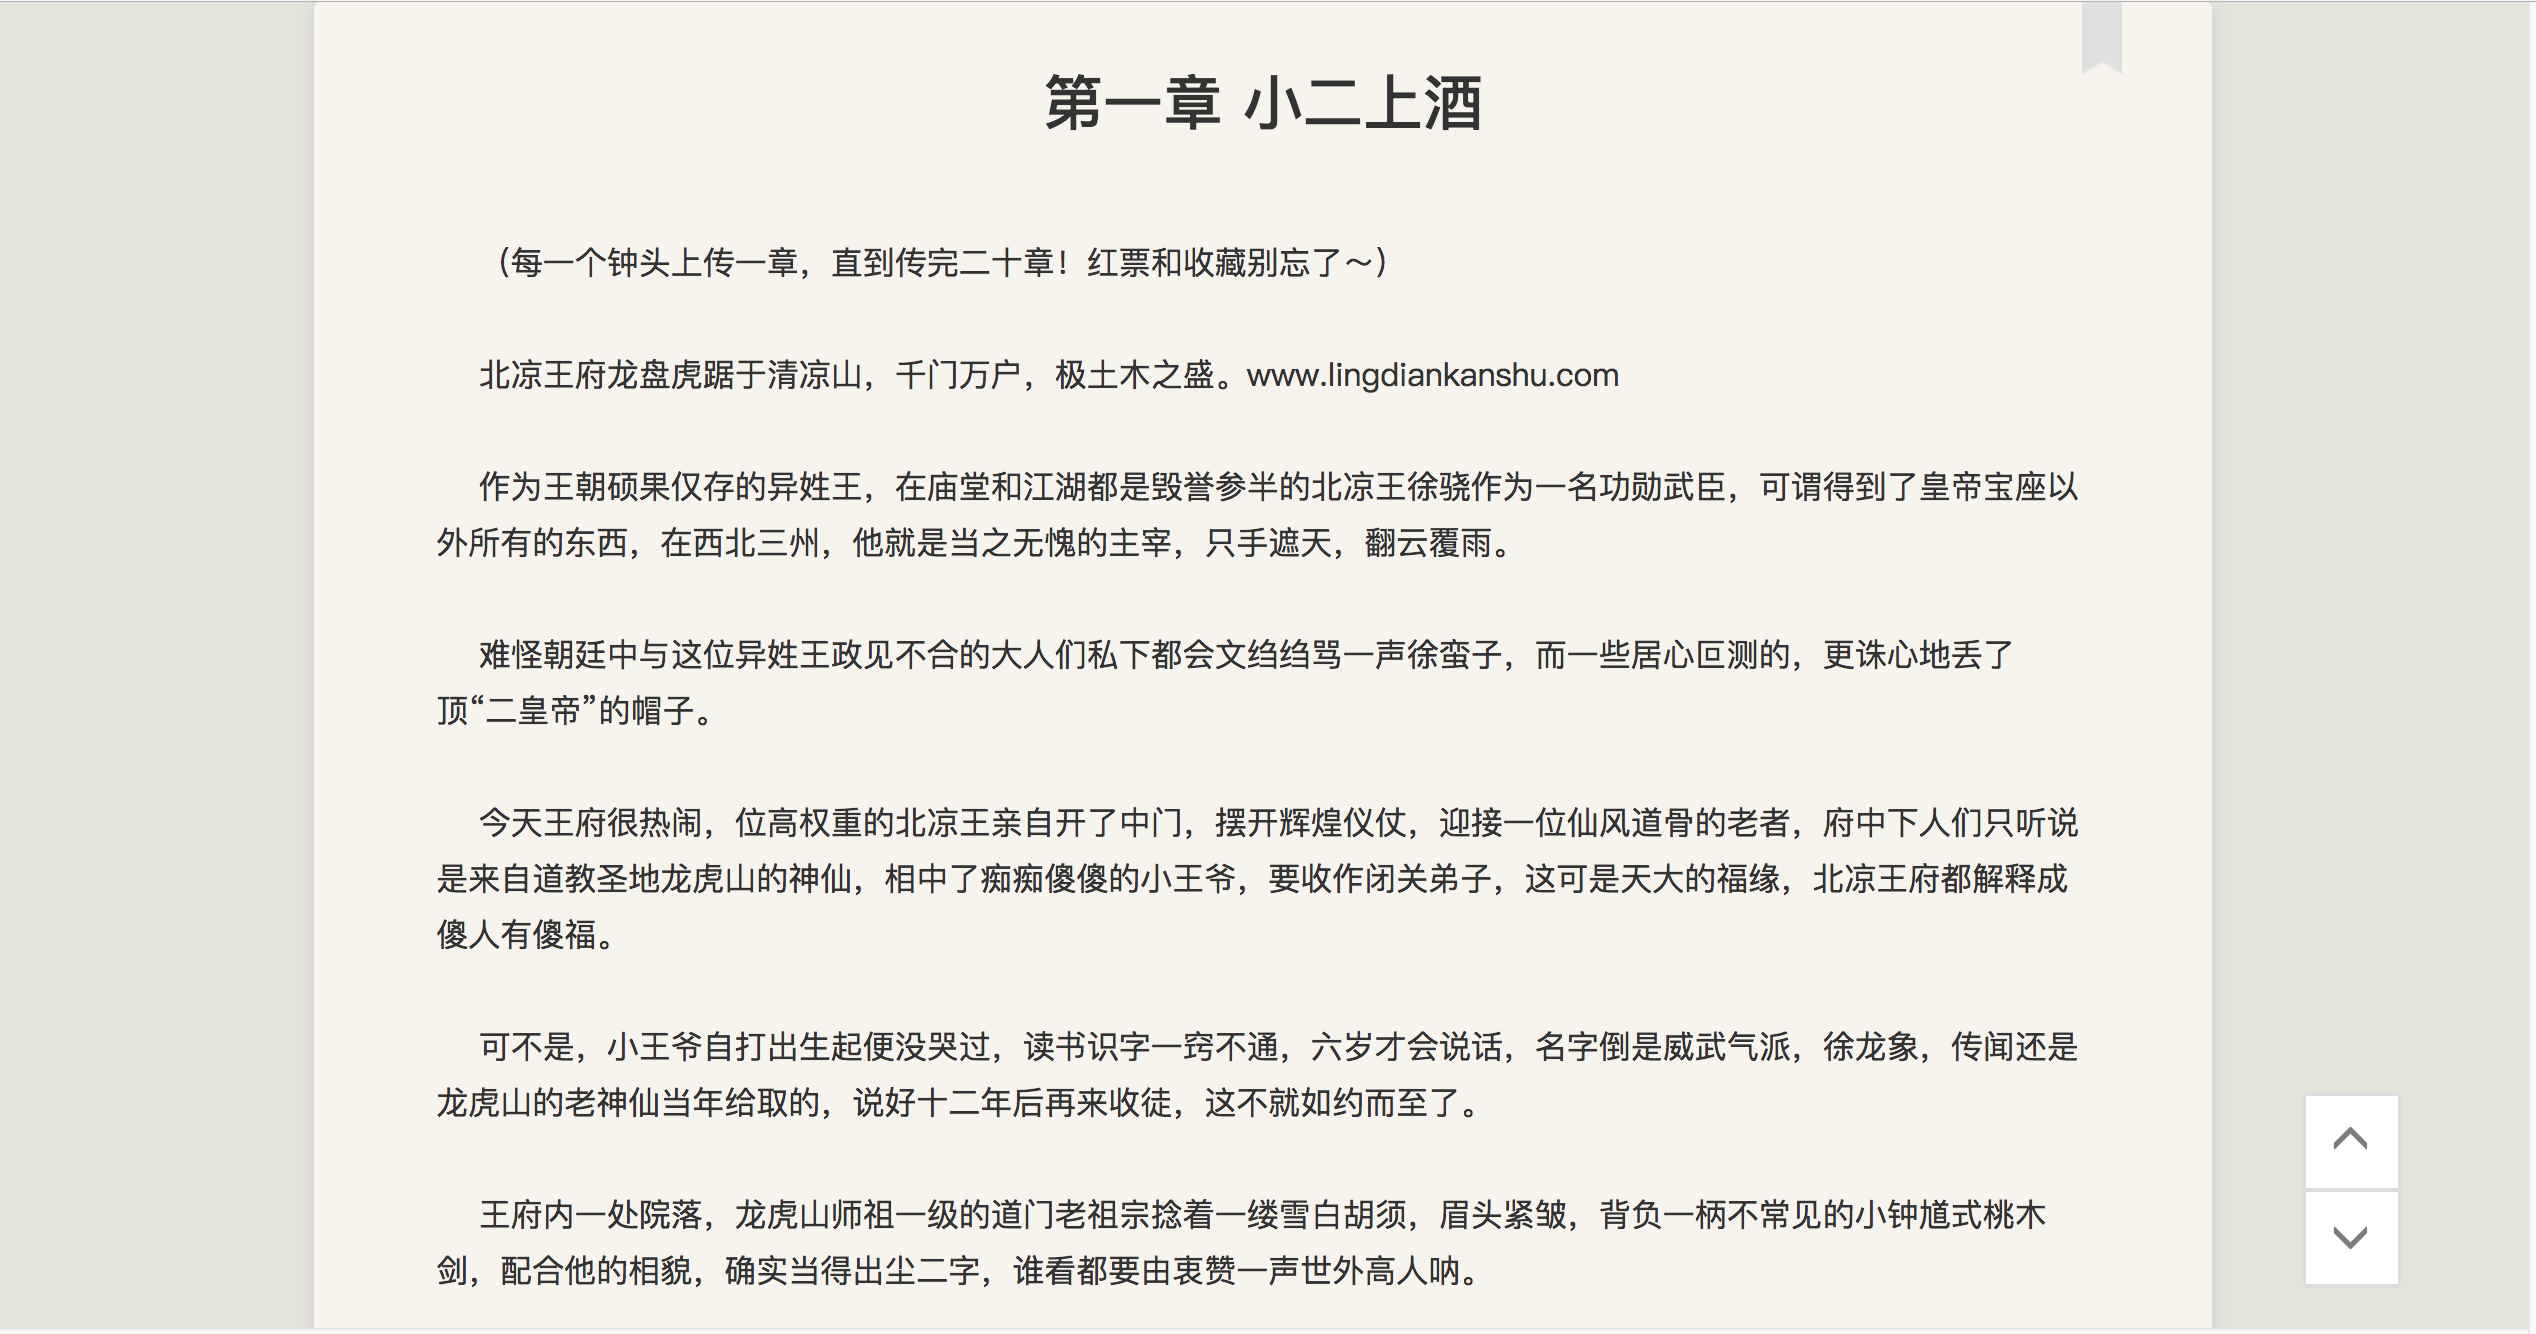
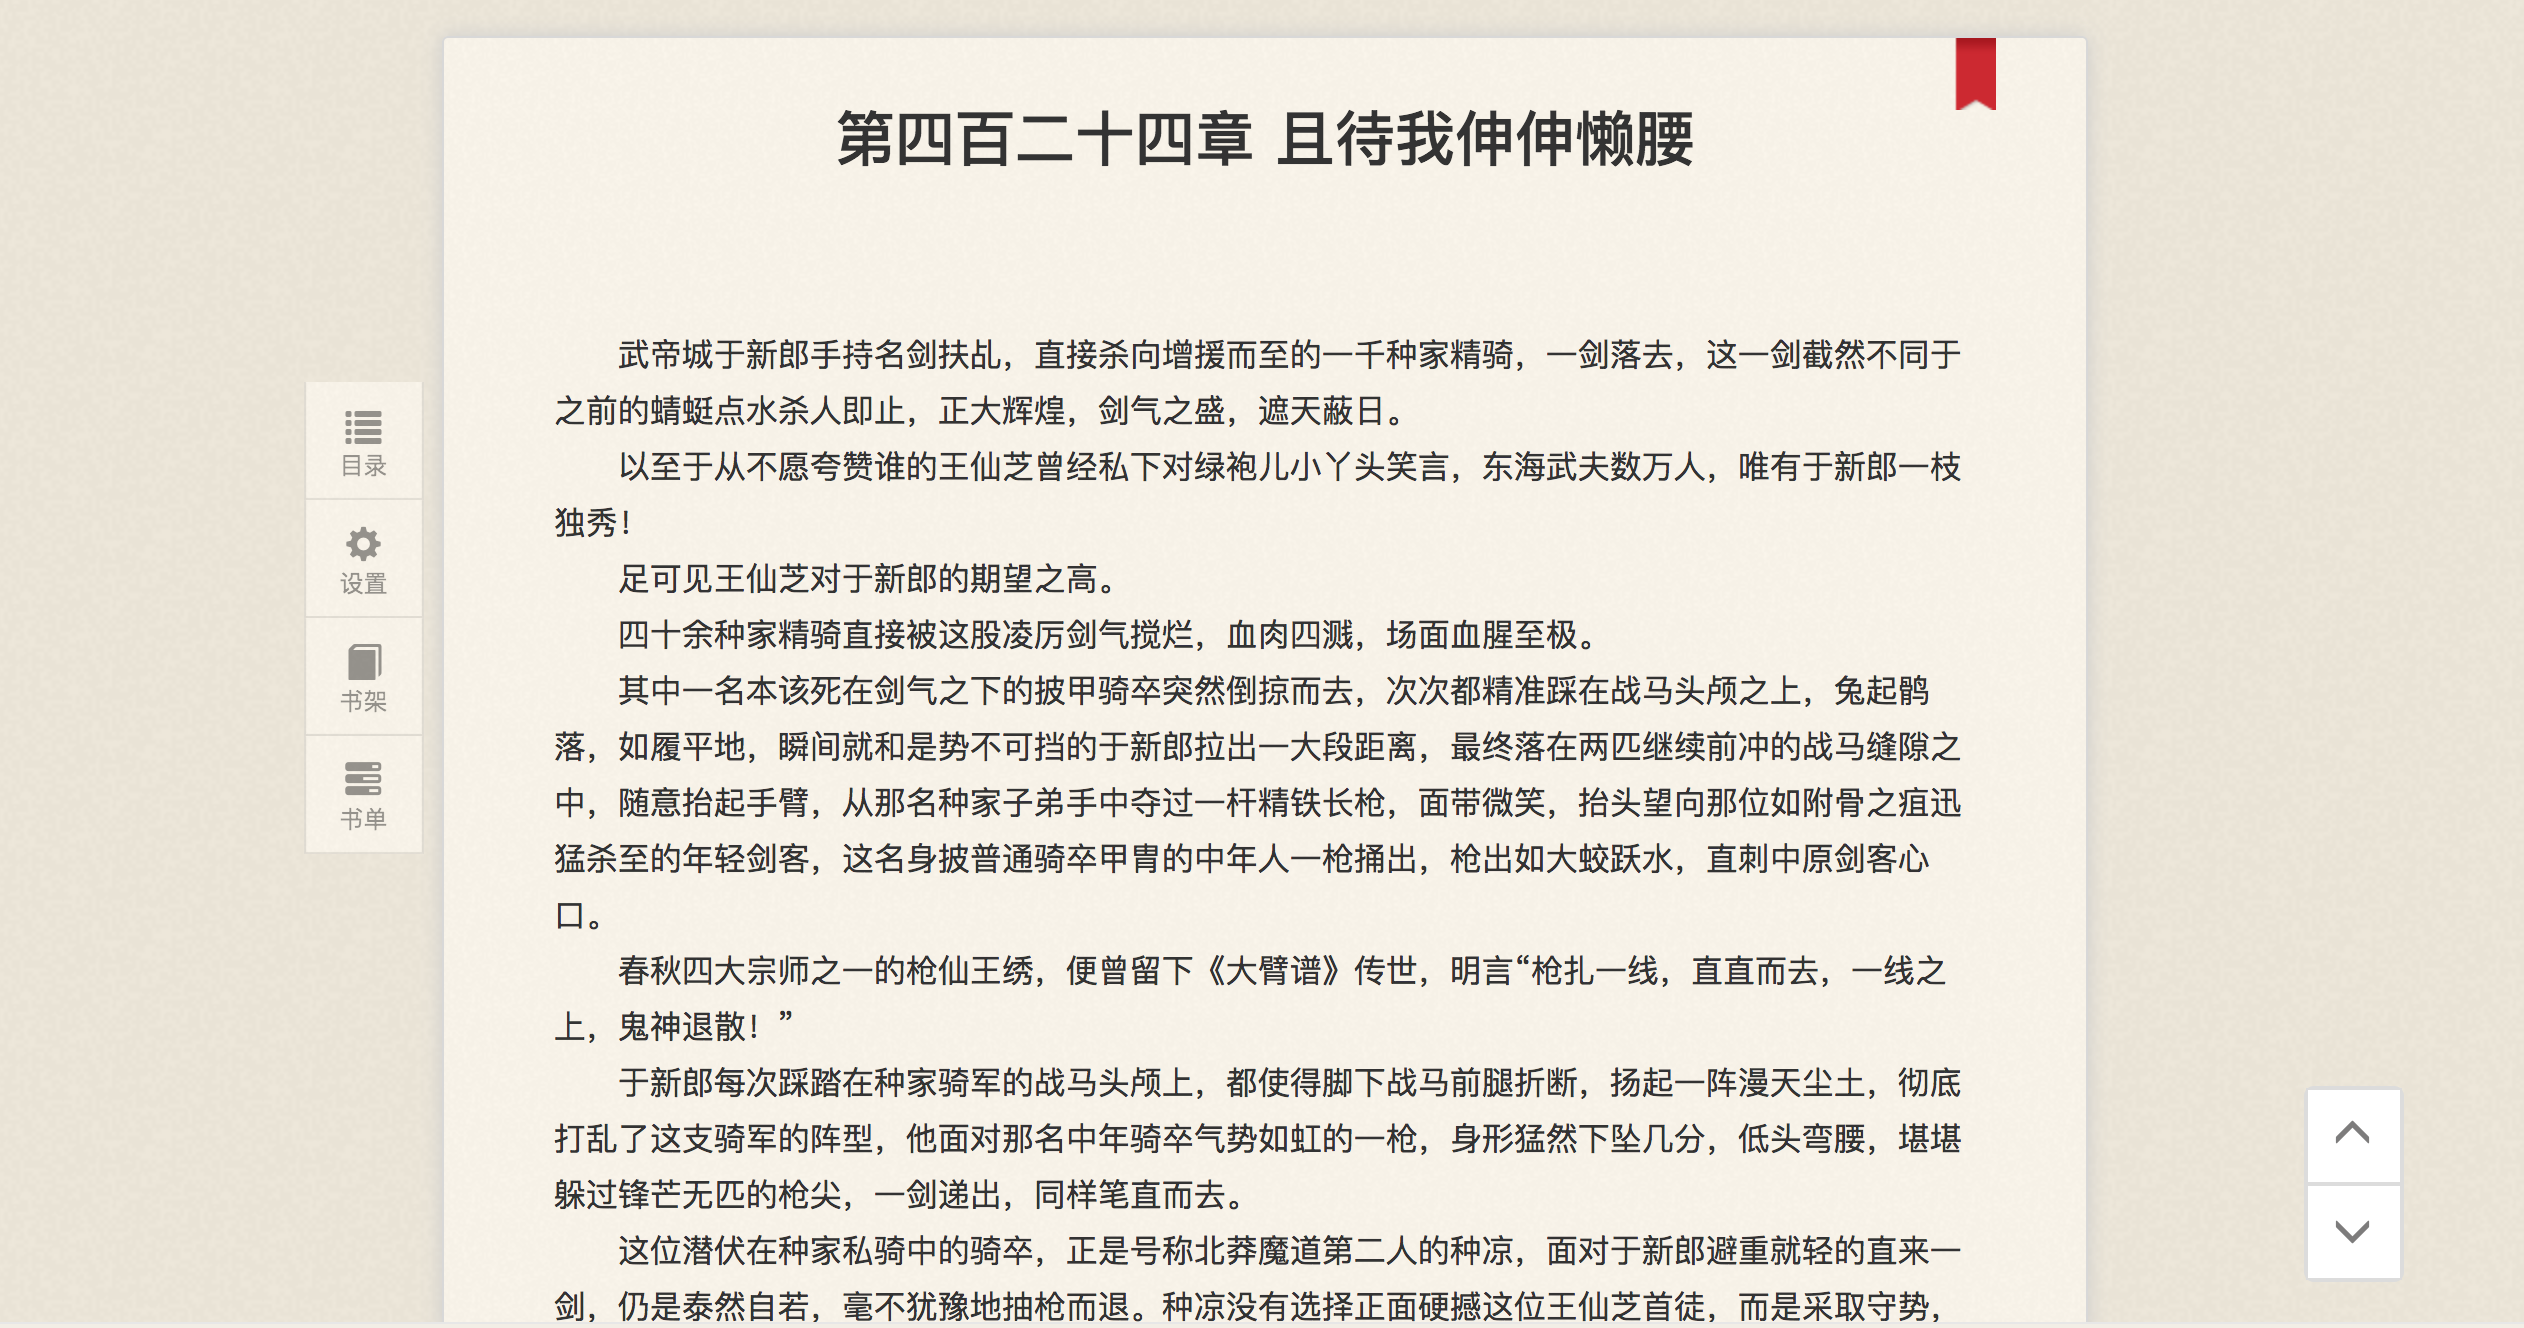
小说内容页面更改

diff --git a/novels_search/static/novels/js/list.js b/novels_search/static/novels/js/list.js
@@ -3,6 +3,8 @@
  */
 $(document).ready(function () {
     var content_url = $("#content_url").val();
+    var chapter_url = $("#url").val();
+    var novels_name = $("#novels_name").val();
     $(".container a").each(function () {
         var url = $(this).attr('href');
         if (typeof(url) != "undefined") {
@@ -10,19 +12,15 @@ $(document).ready(function () {
                 var name = $(this).text();
                 // 当content_url为1，表示该链接不用拼接
                 if (content_url == '1') {
-                    show_url = "owllook_content?url=" + url + "&name=" + name;
+                    content_url = ''
                 } else if (content_url == '0') {
                     // content_url=0表示章节网页需要当前url拼接
-                    content_url = $("#url").val();
-                    show_url = "owllook_content?url=" + content_url + url + "&name=" + name;
+                    content_url = chapter_url;
                 } else if (content_url == '-1') {
                     // content_url=-1 表示特殊情况
-                    content_url = $("#url").val();
-                    show_url = "owllook_content?url=" + content_url + url + "&name=" + name;
-                } else {
-                    show_url = "owllook_content?url=" + content_url + url + "&name=" + name;
-
+                    content_url = chapter_url;
                 }
+                show_url = "owllook_content?url=" + content_url + url + "&name=" + name + "&chapter_url=" + chapter_url + "&novels_name" + novels_name;
                 $(this).attr('href', show_url);
                 $(this).attr('target', '_blank');
             }

diff --git a/novels_search/templates/novels/content.html b/novels_search/templates/novels/content.html
@@ -34,9 +34,36 @@
 <div class="container all-content">
     <input id="content_url" type="hidden" value="{{content_url}}">
     <input id="url" type="hidden" value="{{url}}">
+    <input id="chapter_url" type="hidden" value="{{chapter_url}}">
     <div class="title">
         <a id="bookMark" title="书签" class="bookMark"></a>
         <h2>{{name}}</h2>
+    </div>
+    <div class="left-bar-list">
+        <div class="left-bar-flag">
+            <a href="/chapter?url={{chapter_url}}&novels_name={{novels_name}}">
+                <span class="glyphicon glyphicon-list" aria-hidden="true"></span>
+                <div>目录</div>
+            </a>
+        </div>
+        <div class="left-bar-flag">
+            <a href="">
+                <span class="glyphicon glyphicon-cog" aria-hidden="true"></span>
+                <div>设置</div>
+            </a>
+        </div>
+        <div class="left-bar-flag">
+            <a href="">
+                <span class="glyphicon glyphicon-book" aria-hidden="true"></span>
+                <div>书架</div>
+            </a>
+        </div>
+        <div class="left-bar-flag">
+            <a href="">
+                <span class="glyphicon glyphicon-tasks" aria-hidden="true"></span>
+                <div>书单</div>
+            </a>
+        </div>
     </div>
     <div class="show-content">
         {% for item in soup -%}

diff --git a/novels_search/static/novels/css/content.css b/novels_search/static/novels/css/content.css
@@ -55,11 +55,11 @@ body {
 
 .search input:focus {
     top: 15px;
-    border-bottom: 3px solid #7a776e;
+    border-bottom: 3px solid #E67676;
 }
 
 .all-content {
-    width: 70% !important;
+    width: 65% !important;
     box-shadow: 0 0 15px 0 #CCC;
     background: #F6F4EC;
     margin: 0 auto 30px;
@@ -114,6 +114,43 @@ body {
     word-break: break-all;
     font-family: "Microsoft YaHei";
     text-align: left;
+    position: relative;
+}
+
+.left-bar-list {
+    width: 60px;
+    position: fixed;
+    left: 12%;
+}
+
+.left-bar-list .left-bar-flag {
+    position: relative;
+    z-index: 100;
+    cursor: pointer;
+    border: 1px solid rgba(0, 0, 0, .1);
+    border-top: none;
+    background: url("../img/left_bar_flag.png")
+}
+
+.left-bar-list .left-bar-flag .glyphicon {
+    font-size: 18px;
+}
+
+.left-bar-list .left-bar-flag a {
+    font: 12px/16px PingFangSC-Regular, '-apple-system', Simsun;
+    display: block;
+    width: 58px;
+    height: 58px;
+    transition: none;
+    text-align: center;
+    padding-top: 12px;
+    color: #999;
+    text-decoration: none;
+    color: rgba(0, 0, 0, .4)
+}
+
+.left-bar-list .left-bar-flag a:hover {
+    color: #E67676;
 }
 
 .show-content > p {

diff --git a/novels_search/templates/novels/chapter.html b/novels_search/templates/novels/chapter.html
@@ -1,7 +1,7 @@
 {% extends "main.html" %}
 
 {% block header %}
-<title>{{ name }} - owllook</title>
+<title>{{ novels_name }} - owllook</title>
 <link rel="stylesheet" href="static/css/chapter.css">
 {% endblock %}
 
@@ -20,6 +20,7 @@
 <div class="container all-chapter">
     <input id="content_url" type="hidden" value="{{content_url}}">
     <input id="url" type="hidden" value="{{url}}">
+    <input type="hidden" id="novels_name" value="{{novels_name}}">
     {% for item in soup -%}
     {{item|safe}}
     {%- endfor %}

diff --git a/novels_search/templates/novels/result.html b/novels_search/templates/novels/result.html
@@ -35,7 +35,7 @@
         {%for item in result%}
         <div class="result_item">
             <li>
-                <a target="_blank" href="/chapter?url={{item.url}}&name={{name}}">{{item.title}}</a>
+                <a target="_blank" href="/chapter?url={{item.url}}&novels_name={{name}}">{{item.title}}</a>
                 <div class="netloc">
                     <i>{{item.netloc}}</i>
                     <i><a target="_blank" href="{{item.url}}">查看源网址</a></i>

diff --git a/novels_search/templates/novels/login.html b/novels_search/templates/novels/login.html
@@ -11,7 +11,7 @@
         </li>
         <li>
             <a href="">
-                <span class="glyphicon glyphicon-search" aria-hidden="true"></span>
+                <span class="glyphicon glyphicon-book" aria-hidden="true"></span>
                 <span class="personal-basic">我的书单</span>
             </a>
         </li>

diff --git a/novels_search/views/novels_blueprint.py b/novels_search/views/novels_blueprint.py
@@ -84,16 +84,16 @@ async def owllook_search(request):
 @novels_bp.route("/chapter")
 async def chapter(request):
     url = request.args.get('url', None)
-    name = request.args.get('name', None)
+    novels_name = request.args.get('novels_name', None)
     netloc = urlparse(url).netloc
     if netloc not in RULES.keys():
         return redirect(url)
     content_url = RULES[netloc].content_url
     content = await cache_owllook_novels_chapter(url=url, netloc=netloc)
     if content:
-        content = str(content).replace('[', '').replace(']', '')
+        content = str(content).replace('[', '').replace(']', '').replace(',', '')
         return template(
-            'chapter.html', name=name, url=url, content_url=content_url, soup=content)
+            'chapter.html', novels_name=novels_name, url=url, content_url=content_url, soup=content)
     else:
         return text('failed')
 
@@ -101,6 +101,8 @@ async def chapter(request):
 @novels_bp.route("/owllook_content")
 async def owllook_content(request):
     url = request.args.get('url', None)
+    chapter_url = request.args.get('chapter_url', None)
+    novels_name = request.args.get('novels_name', None)
     name = request.args.get('name', None)
     netloc = urlparse(url).netloc
     if netloc not in RULES.keys():
@@ -118,6 +120,8 @@ async def owllook_content(request):
                 name=name,
                 url=url,
                 content_url=content_url,
+                chapter_url=chapter_url,
+                novels_name=novels_name,
                 soup=content)
         else:
             return template(
@@ -126,6 +130,8 @@ async def owllook_content(request):
                 name=name,
                 url=url,
                 content_url=content_url,
+                chapter_url=chapter_url,
+                novels_name=novels_name,
                 soup=content)
     else:
         return text('failed')

diff --git a/novels_search/views/operate_blueprint.py b/novels_search/views/operate_blueprint.py
@@ -26,17 +26,17 @@ def template(tpl, **kwargs):
 @operate_bp.route("/login", methods=['POST'])
 async def owllook_login(request):
     """
-
+    用户登录
     :param request:
     :return:
         :   -1  用户名或密码不能为空
         :   0   用户名或密码错误
         :   1   登陆成功
     """
-    motor_db = MotorBase().db
     user = request.args.get('user', None)
     pwd = request.args.get('pwd', None)
     if user and pwd:
+        motor_db = MotorBase().db
         data = await motor_db.user.find_one({'user': user})
         if data:
             password = hashlib.md5((WEBSITE["TOKEN"] + pwd).encode("utf-8")).hexdigest()
@@ -53,17 +53,17 @@ async def owllook_login(request):
 @operate_bp.route("/register", methods=['POST'])
 async def owllook_register(request):
     """
-
+    用户注册
     :param request:
     :return:
         :   -1  用户名已存在
         :   0   用户名或密码不能为空
         :   1   注册成功
     """
-    motor_db = MotorBase().db
     user = request.args.get('user', None)
     pwd = request.args.get('pwd', None)
     if user and pwd:
+        motor_db = MotorBase().db
         is_exist = await motor_db.user.find_one({'user': user})
         if not is_exist:
             password = hashlib.md5((WEBSITE["TOKEN"] + pwd).encode("utf-8")).hexdigest()
@@ -81,3 +81,4 @@ async def owllook_register(request):
             return json({'status': -1})
     else:
         return json({'status': 0})
+

diff --git a/novels_search/fetcher/function.py b/novels_search/fetcher/function.py
@@ -132,7 +132,7 @@ async def cache_owllook_novels_content(url, netloc):
         return None
 
 
-@cached(ttl=1800, key_from_attr='url', serializer=PickleSerializer(), namespace="main")
+@cached(ttl=3600, key_from_attr='url', serializer=PickleSerializer(), namespace="main")
 async def cache_owllook_novels_chapter(url, netloc):
     async with aiohttp.ClientSession() as client:
         html = await target_fetch(client=client, url=url)

diff --git a/README.md b/README.md
@@ -59,7 +59,7 @@ BTW，sanic写界面确实不是很方便。
 - [ ] 注册
 
 
-- [ ] 书架
+- [ ] 书架&&阅读书单
 
 
 - [ ] 手机端兼容
